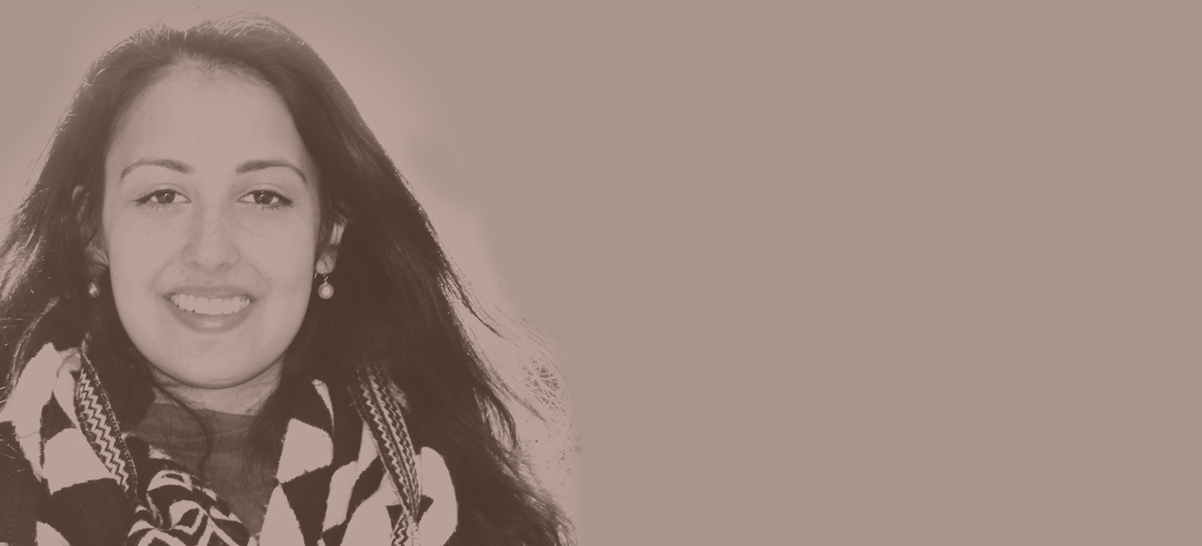
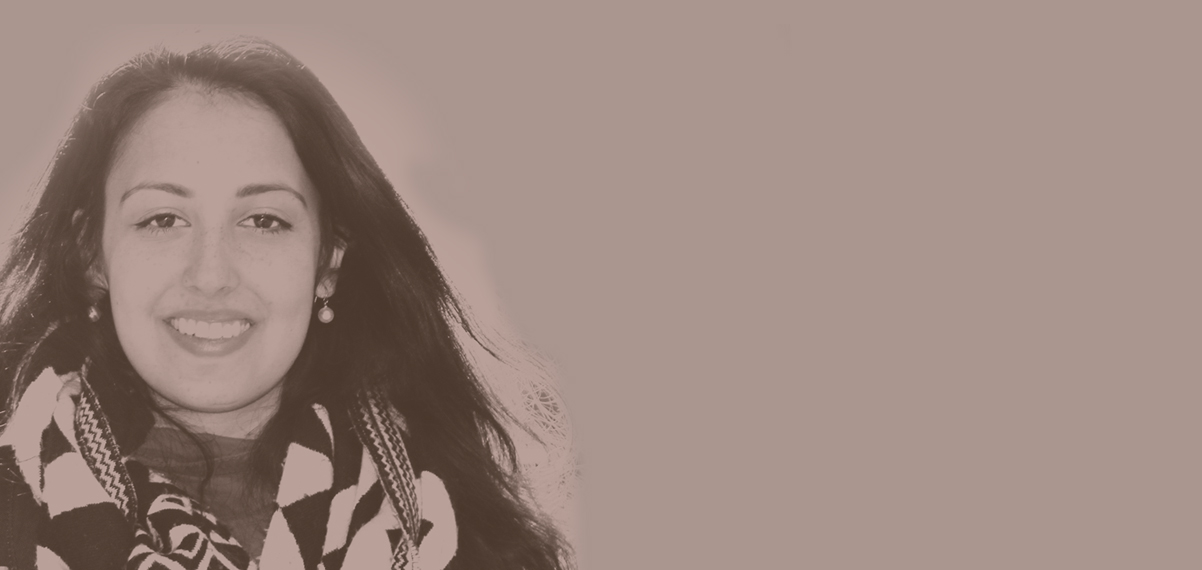
Added section-verslagen

diff --git a/assets/css/main.css b/assets/css/main.css
@@ -679,7 +679,9 @@ section.about {
 
 @media (max-width: 640px) {
   section.about {
-    background-position: 20% center; }
+    background-size: auto 100%;
+    background-position: 20%;
+    background-repeat: no-repeat; }
     section.about h2, section.about .home-lead {
       margin-left: auto;
       margin-right: auto;
@@ -741,7 +743,7 @@ section.beoordelingen {
   section.beoordelingen .home-cta {
     color: #8da3cb; }
   section.beoordelingen .home-lead {
-    margin-top: 250px; }
+    margin-top: 300px; }
   section.beoordelingen .faces {
     list-style: none;
     margin: -50px 0;
@@ -762,6 +764,8 @@ section.beoordelingen {
     box-shadow: 0px 4px 8px rgba(0, 0, 0, 0.4);
     position: relative;
     cursor: pointer; }
+    section.beoordelingen .face:first-child {
+      margin-top: 35px; }
     section.beoordelingen .face.back-btn {
       background: white url(../img/back-icon.svg) center no-repeat;
       background-size: 15px 26px;
@@ -789,6 +793,8 @@ section.beoordelingen {
             transform: scale(1); }
 
 @media (max-width: 640px) {
+  section.beoordelingen .home-lead {
+    margin-top: 230px; }
   section.beoordelingen .faces {
     margin: 0;
     width: 805px;
@@ -804,6 +810,60 @@ section.beoordelingen {
     left: 0px;
     box-sizing: border-box;
     margin-left: 0px; } }
+
+section.verslagen {
+  background-image: url(../img/verslagen-bg.jpg);
+  background-repeat: repeat; }
+  section.verslagen .col-1 {
+    display: -ms-flexbox;
+    display: flex;
+    -ms-flex-align: center;
+        align-items: center; }
+  section.verslagen .home-cta {
+    color: white;
+    background: #5f94b6; }
+  section.verslagen .article-wrap {
+    margin: -50px 0; }
+    section.verslagen .article-wrap::after {
+      clear: both;
+      content: "";
+      display: table; }
+  section.verslagen .article-thumb {
+    display: block;
+    background-size: cover;
+    background-position: center;
+    width: 25%;
+    float: left;
+    position: relative;
+    overflow: hidden; }
+    section.verslagen .article-thumb:after {
+      content: '';
+      display: block;
+      padding-top: 100%; }
+  section.verslagen .article-meta {
+    position: absolute;
+    top: 0;
+    left: 0;
+    right: 0;
+    bottom: 0;
+    background: rgba(95, 148, 182, 0.8);
+    color: #fff;
+    padding: 10px;
+    -webkit-transform: translateY(100%) scale(0.5);
+            transform: translateY(100%) scale(0.5);
+    transition: all 0.2s ease-in-out;
+    opacity: 0; }
+    section.verslagen .article-meta .name {
+      font-size: 18px; }
+    section.verslagen .article-meta .date {
+      font-style: italic; }
+  section.verslagen .article-thumb:hover .article-meta {
+    opacity: 1;
+    -webkit-transform: translateY(0%) scale(1);
+            transform: translateY(0%) scale(1); }
+  @media (max-width: 640px) {
+    section.verslagen .desc-wrap {
+      margin-top: 50px; } }
 
 .home-wrap {
   display: -ms-flexbox;

diff --git a/_includes/sections-verslagen.html b/_includes/sections-verslagen.html
@@ -1,0 +1,1 @@
+<section class="verslagen"><div class="flex flex--center"><div class="col-50"><div class="article-wrap"><a href="" style="background-image: url(assets/img/verslagen/thumb1.jpg)" class="article-thumb"><div class="article-meta"><div class="name">Verslag 1</div><div class="date">Dec 10, 2016</div></div></a><a href="" style="background-image: url(assets/img/verslagen/thumb2.jpg)" class="article-thumb"><div class="article-meta"><div class="name">Verslag 2</div><div class="date">Dec 10, 2016</div></div></a><a href="" style="background-image: url(assets/img/verslagen/thumb3.jpg)" class="article-thumb"><div class="article-meta"><div class="name">Verslag 3</div><div class="date">Dec 10, 2016</div></div></a><a href="" style="background-image: url(assets/img/verslagen/thumb4.jpg)" class="article-thumb"><div class="article-meta"><div class="name">Verslag 4</div><div class="date">Dec 10, 2016</div></div></a><a href="" style="background-image: url(assets/img/verslagen/thumb5.jpg)" class="article-thumb"><div class="article-meta"><div class="name">Verslag 5</div><div class="date">Dec 10, 2016</div></div></a><a href="" style="background-image: url(assets/img/verslagen/thumb6.jpg)" class="article-thumb"><div class="article-meta"><div class="name">Verslag 6</div><div class="date">Dec 10, 2016</div></div></a><a href="" style="background-image: url(assets/img/verslagen/thumb7.jpg)" class="article-thumb"><div class="article-meta"><div class="name">Verslag 7</div><div class="date">Dec 10, 2016</div></div></a><a href="" style="background-image: url(assets/img/verslagen/thumb8.jpg)" class="article-thumb"><div class="article-meta"><div class="name">Verslag 8</div><div class="date">Dec 10, 2016</div></div></a><a href="" style="background-image: url(assets/img/verslagen/thumb9.jpg)" class="article-thumb"><div class="article-meta"><div class="name">Verslag 9</div><div class="date">Dec 10, 2016</div></div></a><a href="" style="background-image: url(assets/img/verslagen/thumb10.jpg)" class="article-thumb"><div class="article-meta"><div class="name">Verslag 10</div><div class="date">Dec 10, 2016</div></div></a><a href="" style="background-image: url(assets/img/verslagen/thumb11.jpg)" class="article-thumb"><div class="article-meta"><div class="name">Verslag 11</div><div class="date">Dec 10, 2016</div></div></a><a href="" style="background-image: url(assets/img/verslagen/thumb12.jpg)" class="article-thumb"><div class="article-meta"><div class="name">Verslag 12</div><div class="date">Dec 10, 2016</div></div></a></div></div><div class="col-50 flex flex--center order-first"><div class="col-1"><div class="desc-wrap"><p class="home-lead outdented">...de verslagen die zij heeft geschreven...</p><a href="" class="home-cta">Lees alle verslagen</a></div></div></div></div></section>

diff --git a/assets/css/3-sections/_home-verslagen.sass b/assets/css/3-sections/_home-verslagen.sass
@@ -1,0 +1,58 @@
+section.verslagen
+  background:
+    image: url(../img/verslagen-bg.jpg)
+    repeat: repeat
+
+  .col-1
+    display: flex
+    align-items: center
+
+  .home-cta
+    color: white
+    background: #5f94b6
+
+  .article-wrap
+    margin: -50px 0
+    +clearfix
+
+  .article-thumb
+    display: block
+    background:
+      size: cover
+      position: center
+    width: 25%
+    float: left
+    position: relative
+    overflow: hidden
+
+    &:after
+      content: ''
+      display: block
+      padding-top: 100%
+
+  .article-meta
+    position: absolute
+    top: 0
+    left: 0
+    right: 0
+    bottom: 0
+    background: fade-out(#5f94b6, 0.2)
+    color: #fff
+    padding: 10px
+    transform: translateY(100%) scale(0.5)
+    transition: all 0.2s ease-in-out
+    opacity: 0
+
+    .name
+      font-size: 18px
+
+    .date
+      font-style: italic
+
+  .article-thumb:hover .article-meta
+    opacity: 1
+    transform: translateY(0%) scale(1)
+
+  @media (max-width: 640px)
+    .desc-wrap
+      margin-top: 50px

diff --git a/assets/css/3-sections/_home-beoordelingen.sass b/assets/css/3-sections/_home-beoordelingen.sass
@@ -10,7 +10,7 @@ section.beoordelingen
     color: #8da3cb
 
   .home-lead
-    margin-top: 250px
+    margin-top: 300px
 
   .faces
     list-style: none
@@ -36,6 +36,9 @@ section.beoordelingen
     box-shadow: 0px 4px 8px rgba(0,0,0,0.4)
     position: relative
     cursor: pointer
+
+    &:first-child
+      margin-top: 35px
 
     &.back-btn
       background: white url(../img/back-icon.svg) center no-repeat
@@ -64,6 +67,9 @@ section.beoordelingen
 
 @media (max-width: 640px)
   section.beoordelingen
+
+    .home-lead
+      margin-top: 230px
 
     .faces
       margin: 0

diff --git a/index.html b/index.html
@@ -12,6 +12,7 @@ title: Nadine Ahmadali
     {% include sections-about.html %}
     {% include sections-videos.html %}
     {% include sections-beoordelingen.html %}
+    {% include sections-verslagen.html %}
     {% include columns.html %}
 
     <div style="height: 2000px"></div>

diff --git a/assets/css/3-sections/_home-about.sass b/assets/css/3-sections/_home-about.sass
@@ -25,7 +25,9 @@ section.about
       color: #ccc
 
     background:
-      position: 20% center
+      size: auto 100%
+      position: 20%
+      repeat: no-repeat
 
     // background:
     //   position: left top

diff --git a/assets/css/main.scss b/assets/css/main.scss
@@ -13,5 +13,6 @@
 @import "3-sections/home-about";
 @import "3-sections/home-videos";
 @import "3-sections/home-beoordelingen";
+@import "3-sections/home-verslagen";
 
 @import "4-layouts/home";
